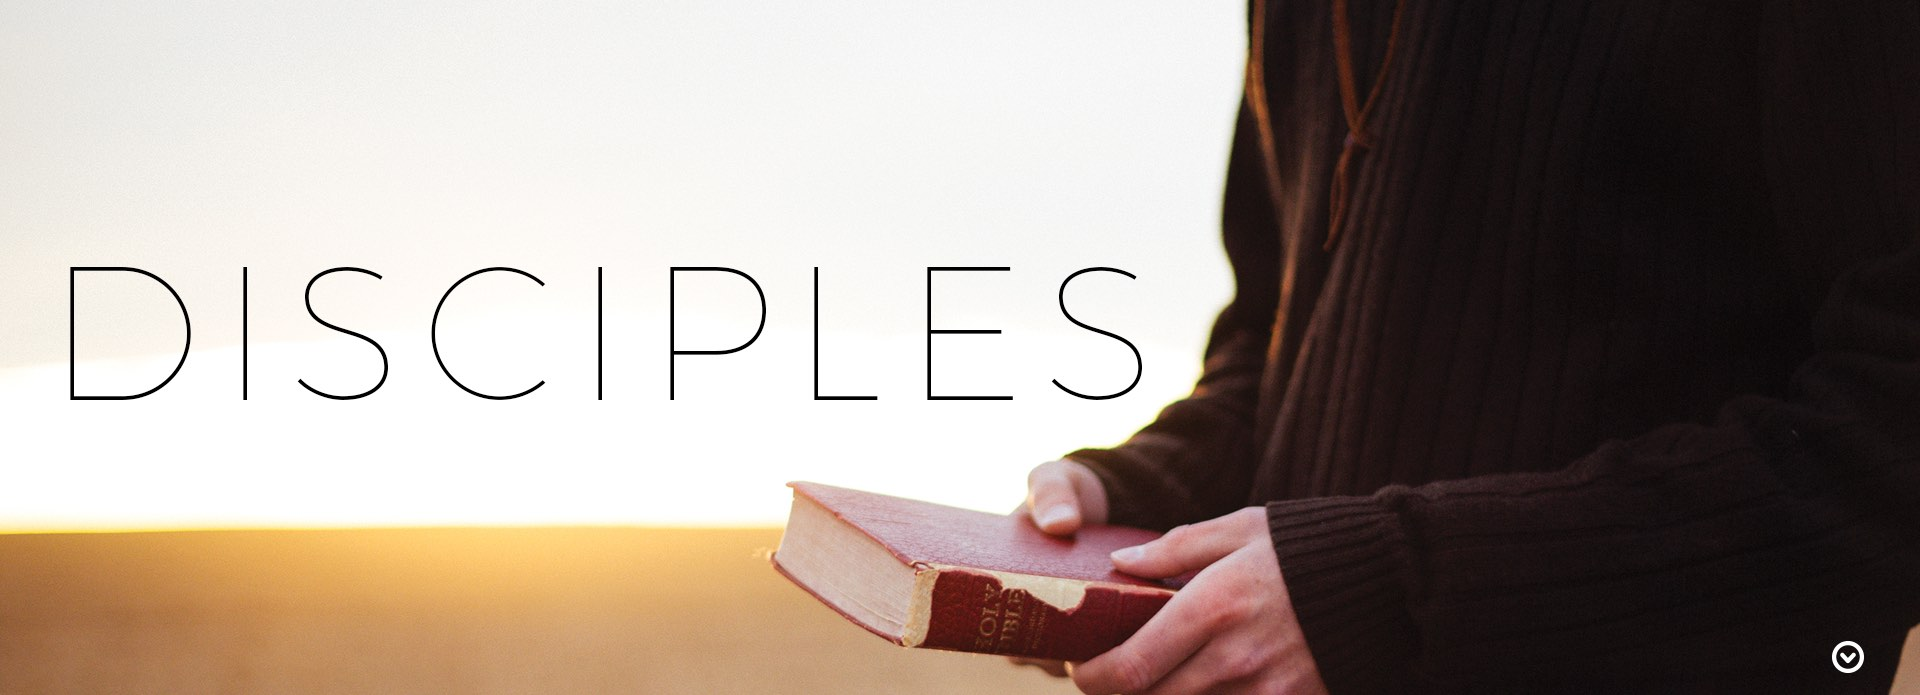
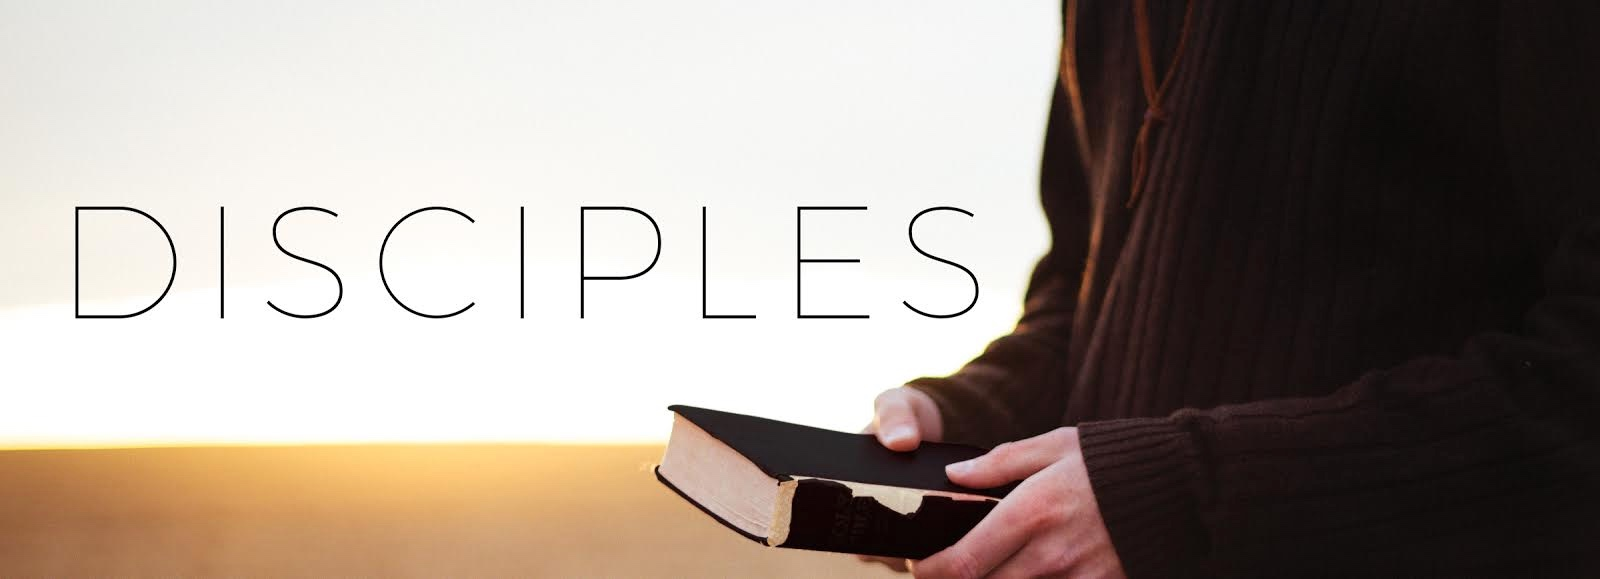
update image for disciples series

diff --git a/site/content/messages/disciples.md b/site/content/messages/disciples.md
@@ -1,7 +1,7 @@
 ---
 date: "2017-05-21"
 title: "Disciples"
-image: "disciples-dark.jpg"
+image: "disciples.jpg"
 type: series
 ---
 

diff --git a/site/content/series/disciples/_index.md b/site/content/series/disciples/_index.md
@@ -1,5 +1,5 @@
 ---
 date: "2017-05-21"
-image: "series/disciples-dark.jpg"
+image: "series/disciples.jpg"
 ---
 
